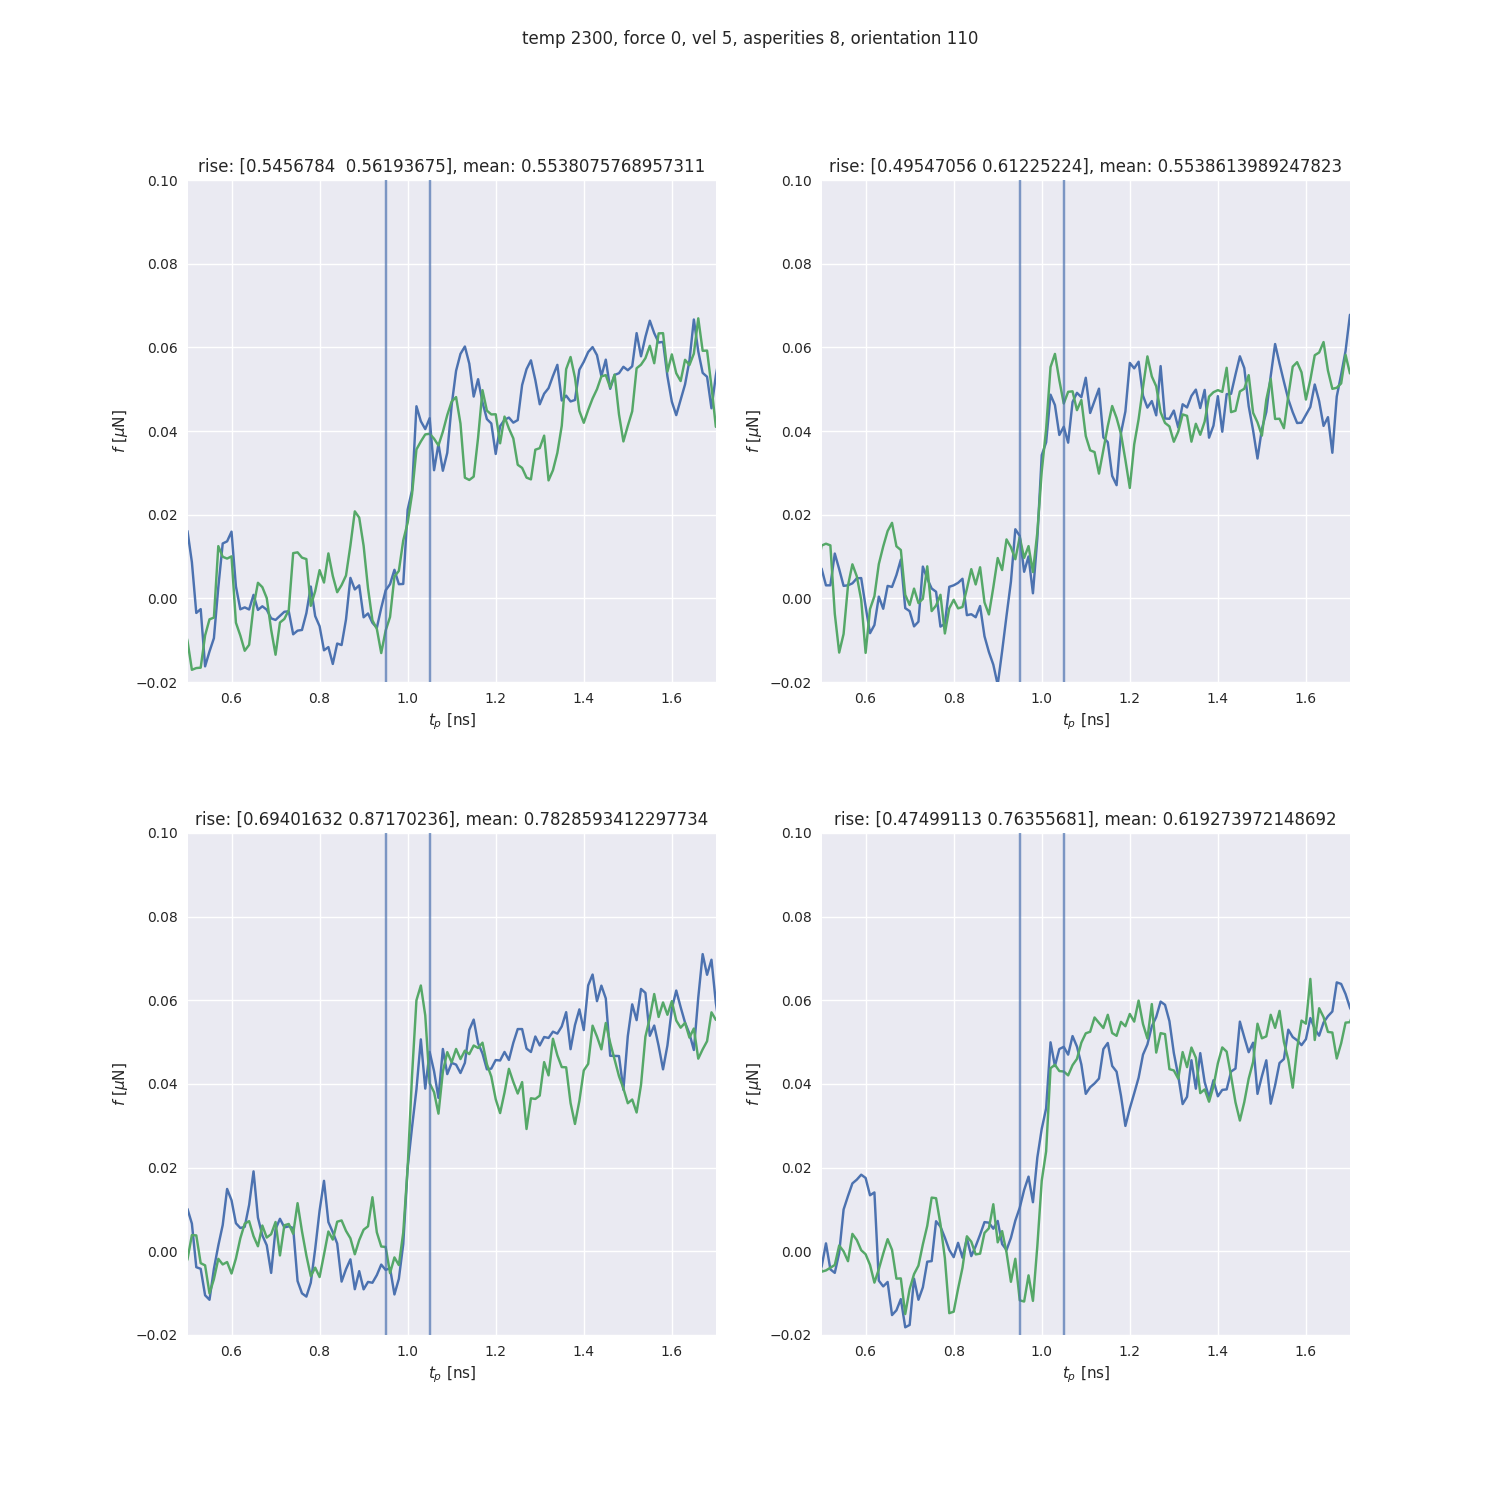
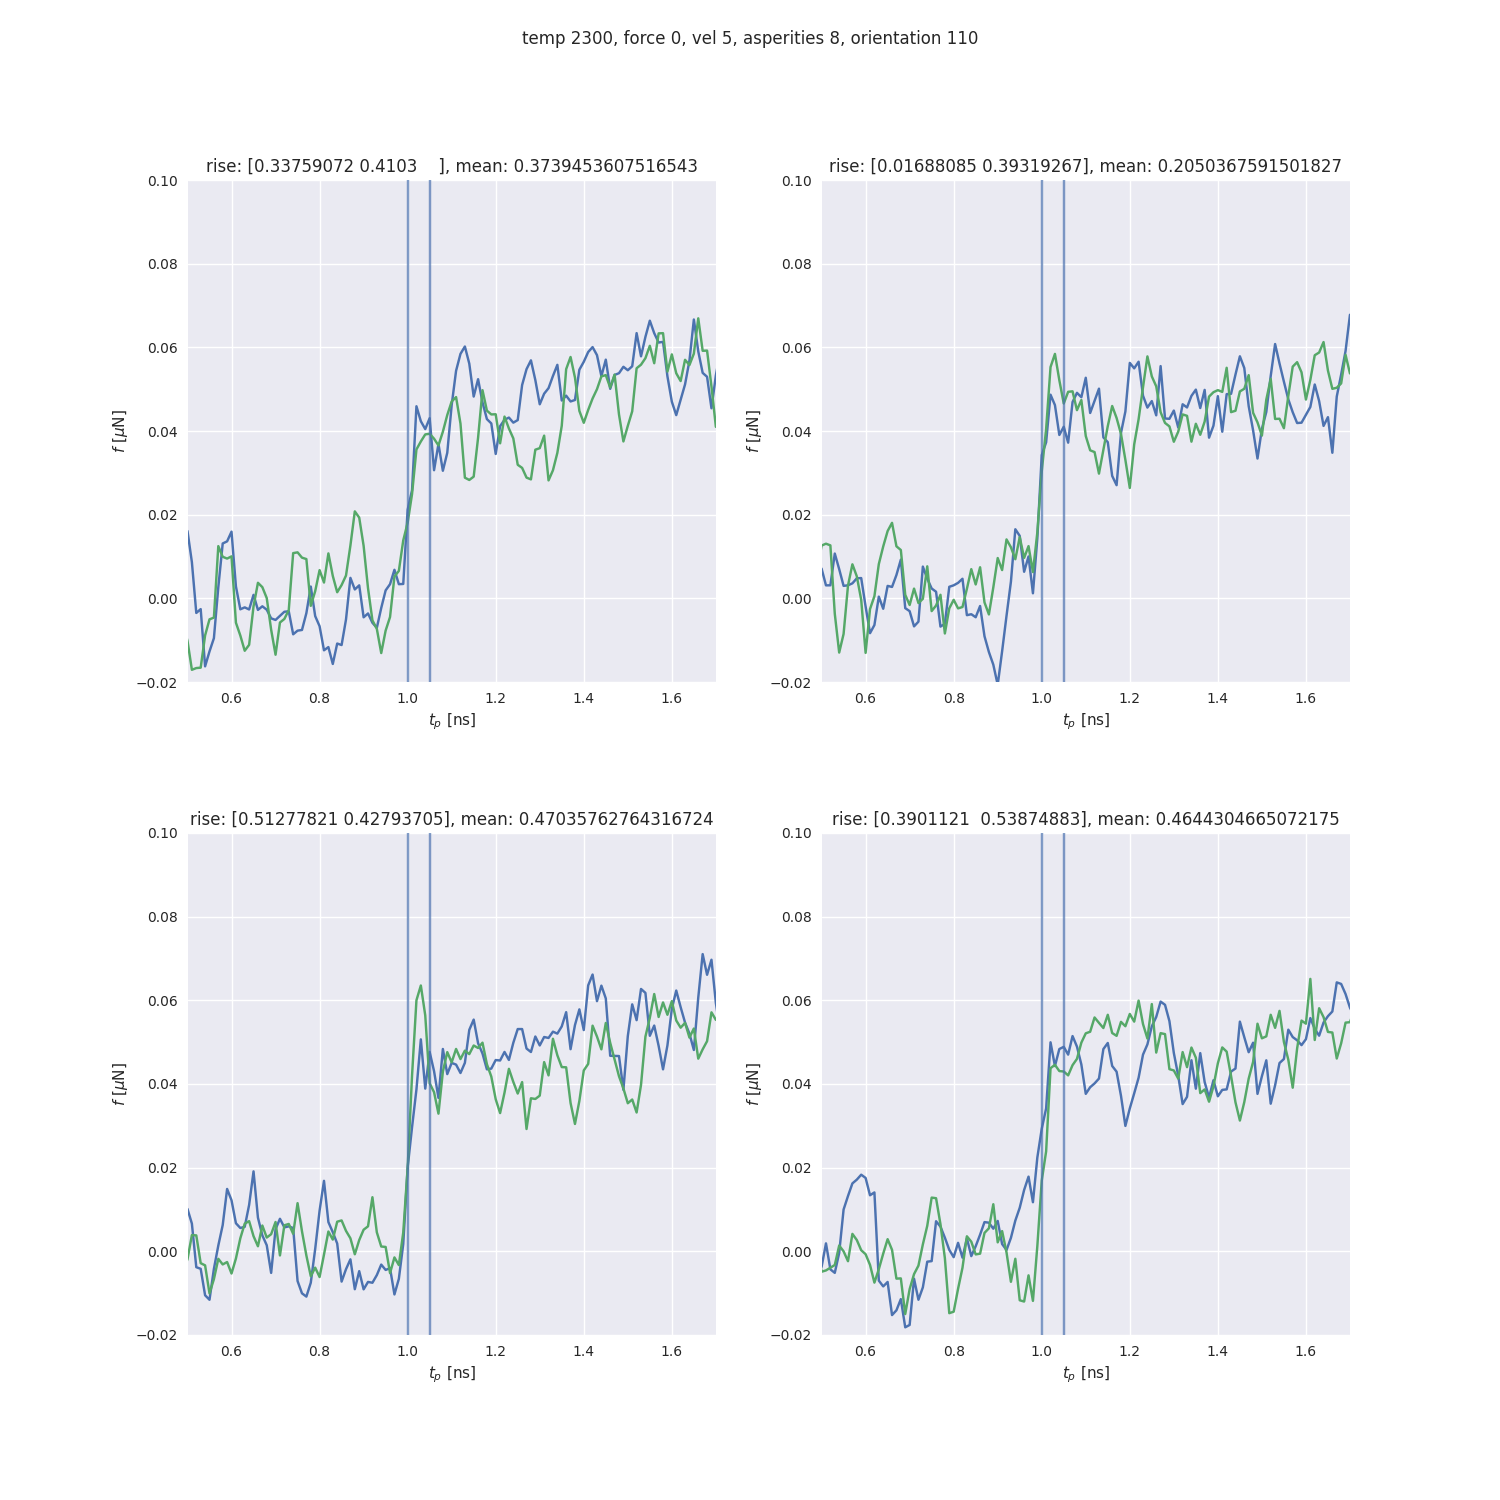
manually looking up closest indices to 1 ns and 1.05 ns

diff --git a/python/plot/plot_load_curves.py b/python/plot/plot_load_curves.py
@@ -432,6 +432,8 @@ def plot_production(temp, vel, force, uc, asperities, time, orientation, grid, e
 
     print(template_lc)
     for i, (initnum, seeds) in enumerate(initseed.items()):
+        #push_start_indx = []
+        #push_stop_indx = []
         load_curves_all, load_curves_mean= load_load_curves(temp, vel, force, asperities, orientation,
                                                     grid, template_lc,template_ms, initnum, seeds)
         ms_all, ms_mean = load_max_static(temp, vel, force, asperities, orientation, grid,
@@ -459,15 +461,11 @@ def plot_production(temp, vel, force, uc, asperities, time, orientation, grid, e
         print('load curves', np.shape(load_curves_all), np.shape(load_curves_mean))
         for load_curve in load_curves_all:
             axs[i].plot(load_curve[:,0], load_curve[:,1])
+            #push_start_indx.append((np.abs(load_curves_all[:,0] - 1.0)
         for ms in ms_all:
             axs[i].plot(ms[0], ms[1], 'o') #this is just proprietary
 
-        #print('mean load curves shape: ',load_curves_mean.shape)
         print('all load curves shape: ',load_curves_all.shape)
-        #print(' mean max static shape: ', ms_mean.shape)
-        #axs[i].plot(load_curves_mean[0,:,0], load_curves_mean[0,:,1],'-', label = 'average')
-        #axs[i].legend()
-        #axs[i].plot(ms_mean[0], ms_mean[1], 'o')
         axs[i].set_xlabel(r"$t_p$ [ns]")
         axs[i].set_ylabel(r"$f$ [$\mu$N]")
         if asperities == 2:
@@ -475,11 +473,15 @@ def plot_production(temp, vel, force, uc, asperities, time, orientation, grid, e
         elif asperities ==8:
             axs[i].set_title(f'rise: {rise_all}, mean: {rise_mean}')
             #axs[i].set_title(aux_dict['erratic'])
+        
+        push_start_indx = (np.abs(load_curves_all[0][:,0] - 1.0)).argmin()
+        push_stop_indx = (np.abs(load_curves_all[0][:,0] - 1.05)).argmin()
 
         axs[i].set_ylim(bottom = -0.02, top = 0.1)
         axs[i].set_xlim(left = 0.5, right = 1.7)
-        axs[i].axvline(0.95, alpha = 0.7)
-        axs[i].axvline(1.05, alpha = 0.7)
+        
+        axs[i].axvline(load_curves_all[0][push_start_indx,0], alpha = 0.7)
+        axs[i].axvline(load_curves_all[0][push_stop_indx,0], alpha = 0.7)
     plt.subplots_adjust(hspace=0.3)
     plt.suptitle(f"temp {temp}, force {force}, vel {vel}, asperities {asperities}, orientation {orientation}")
     plt.legend()

diff --git a/python/post/post_utils.py b/python/post/post_utils.py
@@ -293,20 +293,8 @@ def extract_load_curves(logfile, delta=None, init_time=0, window=1,
 
     # smooth friction force
     fx = running_mean(fx, window)
-    #running mean before finding rise?
-    
-    #finding where push starts, and about where it breaks
-    push_start_indx = (np.abs(time - 1.0)).argmin()
-    push_stop_indx = (np.abs(time-1.05)).argmin()
-
-    #print(f'push start indx, time: {time[push_start_indx]}, {push_start_indx}')
-    #print(f'push stop indx, time: {time[push_stop_indx]}, {push_stop_indx}')
-    
-    resistance_band = (time[push_start_indx:push_stop_indx], 
-                       fx[push_start_indx:push_stop_indx]) #area of lc that rises steadily!
 
 
-    stop
     # convert friction force from eV/Å to μN (micro Newton)
     eV = value(u'elementary charge')  # J
     Å = 1e-10  # m
@@ -323,6 +311,22 @@ def extract_load_curves(logfile, delta=None, init_time=0, window=1,
         first_peak = 0
         warnings.warn("No prominent peaks found, try a lower prominence")
 
+    #running mean before finding rise?
+    
+    #finding where push starts, and about where it breaks
+    push_start_indx = (np.abs(time - 1.0)).argmin()
+    push_stop_indx = (np.abs(time-1.05)).argmin()
+
+    print(f'push start indx, time: {time[push_start_indx]}, {push_start_indx}')
+    print(f'push stop indx, time: {time[push_stop_indx]}, {push_stop_indx}')
+    
+    resistance_band = (time[push_start_indx:push_stop_indx], 
+                       fx[push_start_indx:push_stop_indx]) #area of lc that rises steadily!
+
+    res_band_fit = np.polyfit(resistance_band[0], resistance_band[1], 1)
+    rise = res_band_fit[0]
+    print(rise)
+    savetxt(f_r, asarray([rise]))
 
     # save data to files
     # we do not really need 250000 points, it just takes up
@@ -340,12 +344,7 @@ def extract_load_curves(logfile, delta=None, init_time=0, window=1,
     f_ms.write(f"{push_time + time[first_peak]:.10e} {fx[first_peak]:.10e} \n")
     f_ms.flush()
 
-    resistance_band = (time_short[95:105], fx_short[95:105]) #area of lc that rises steadily!
-    res_band_fit = np.polyfit(resistance_band[0], resistance_band[1], 1)
-    rise = res_band_fit[0]
-    print(rise)
-    savetxt(f_r, asarray([rise]))
-    # close files
+
     f_lc.close()
     f_ms.close()
     f_r.close()
